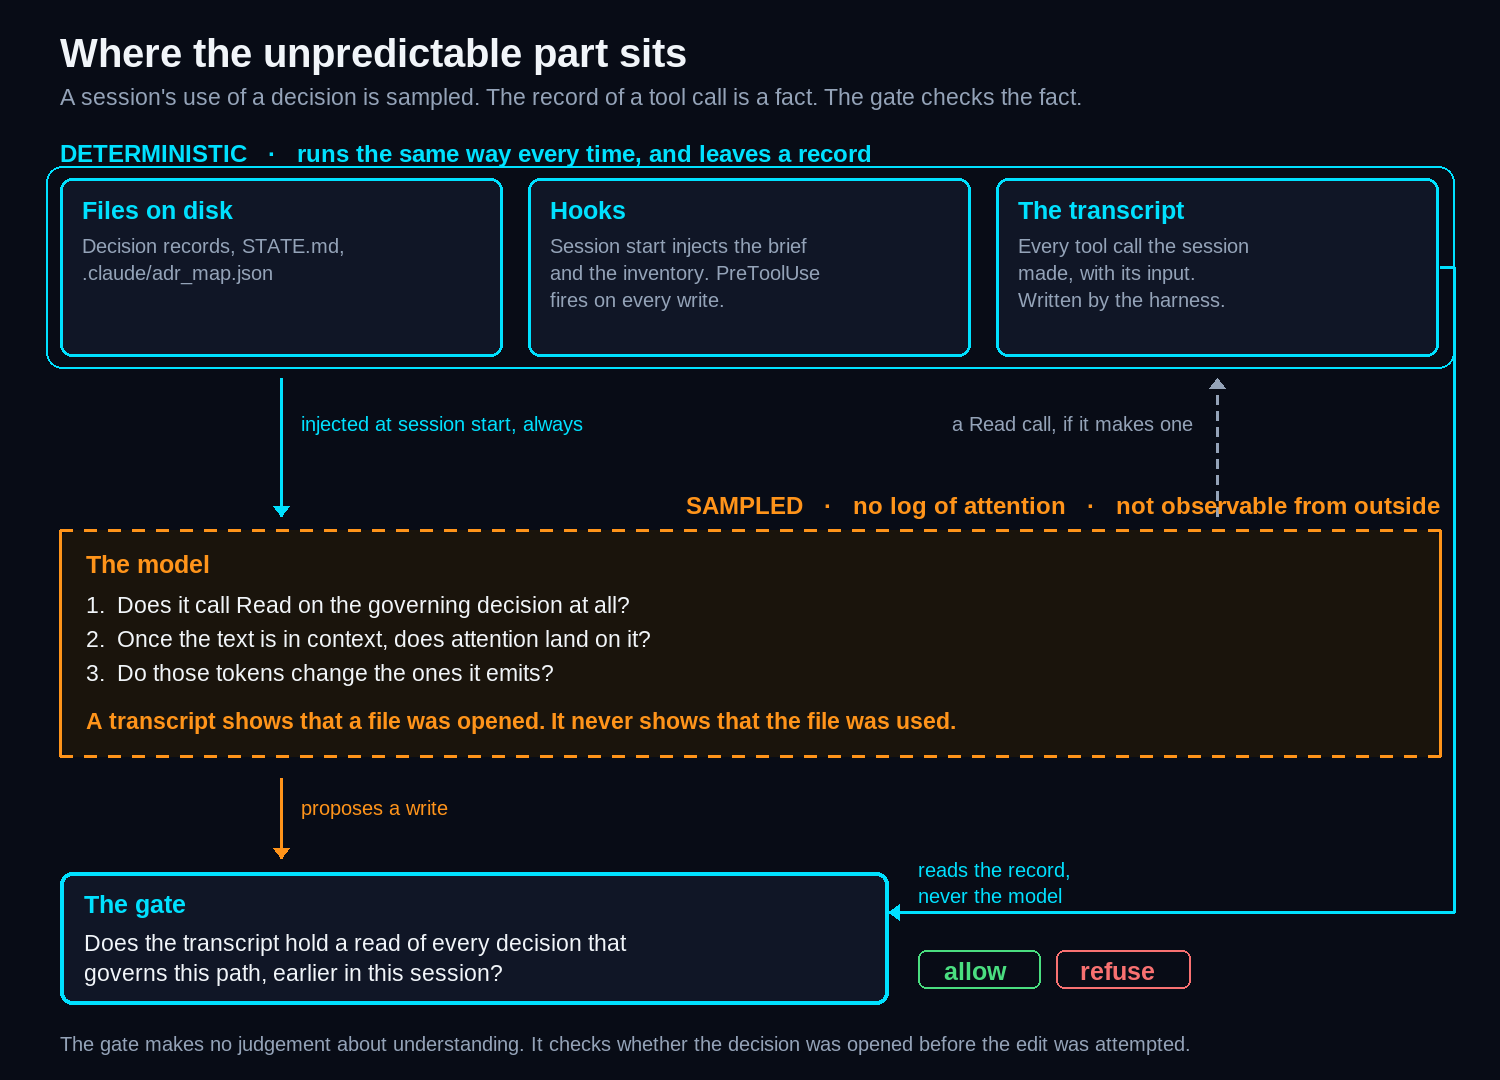
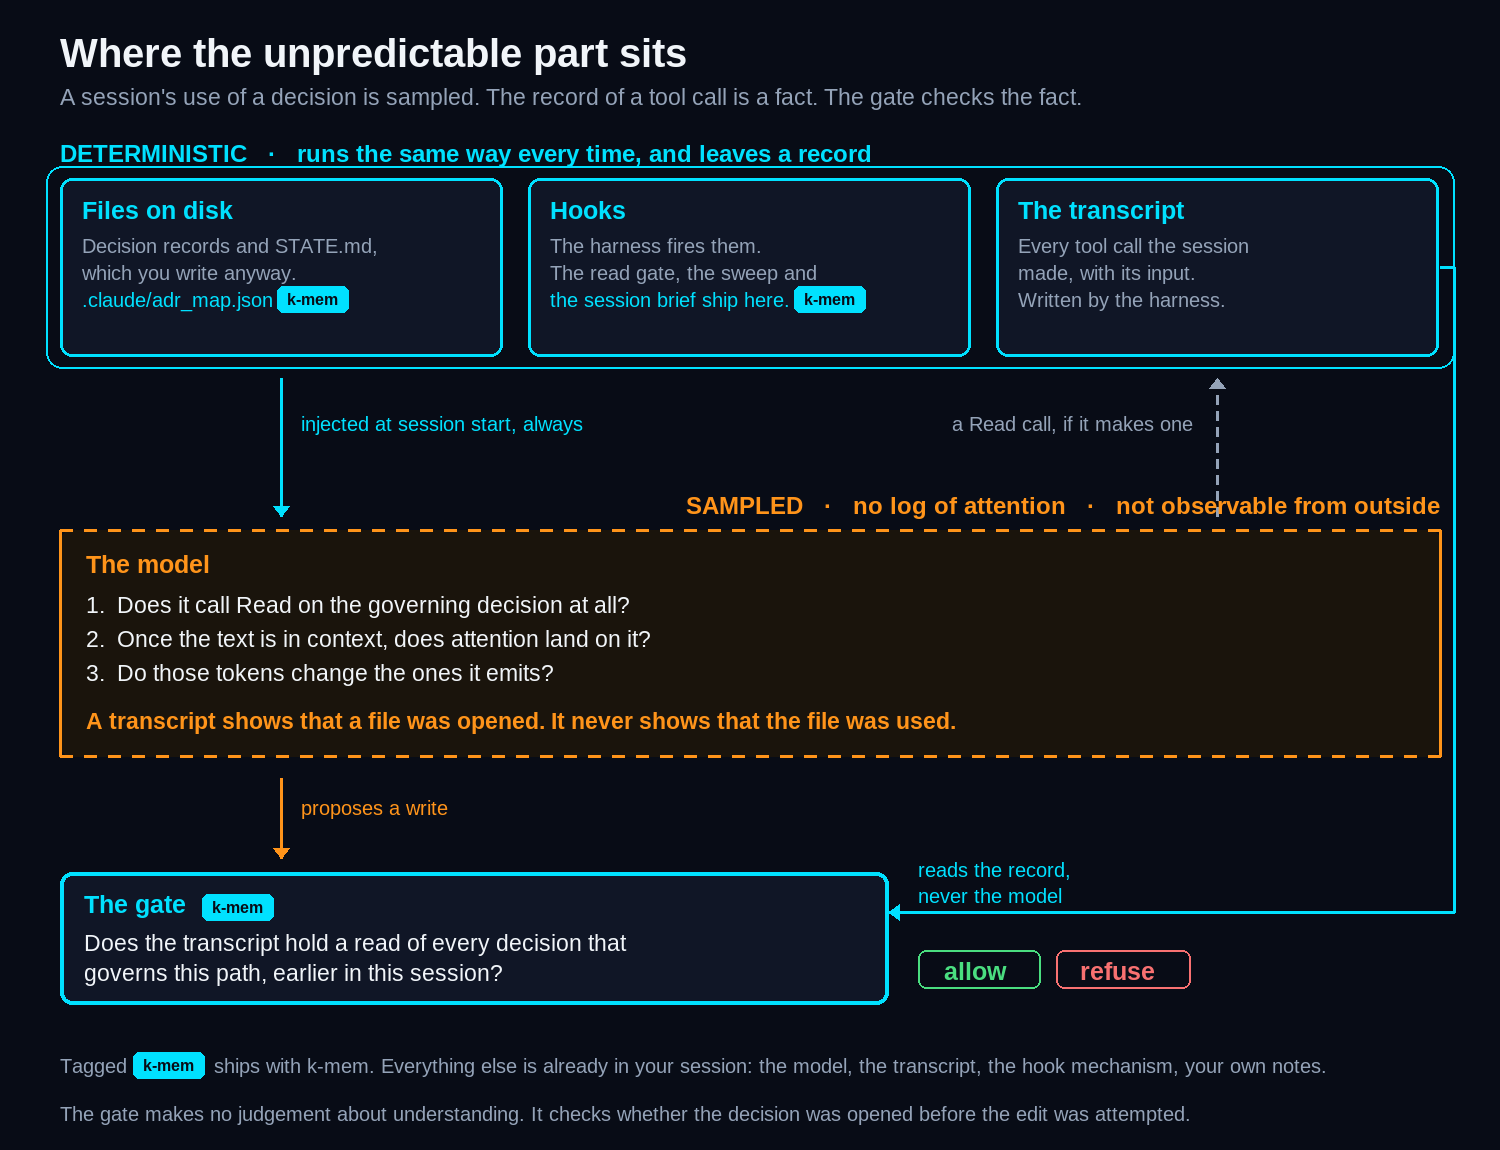
docs: mark which parts of the diagram ship with k-mem
The diagram showed the loop with the gate in it and marked nothing, so
it read as a description of how sessions already work. Half of what it
showed is machinery that exists either way.

A cyan tag now sits on the three things this project adds: the map file,
the hooks it ships, and the gate. The model, the transcript, the hook
mechanism and your own decision records stay plain, and a legend says
which is which.

That carries a claim worth making. K-mem adds one map file and a set of
hooks that read artifacts already lying around. It builds no store and
touches no model.

diff --git a/scripts/make_brand_images.py b/scripts/make_brand_images.py
@@ -157,11 +157,12 @@ def make_gate_demo() -> Path:
 
 def make_diagram() -> Path:
     """The zone diagram. Implements docs/diagram-brief.md; argue with the brief, not here."""
-    W, H = 1500, 1080
+    W, H = 1500, 1150
     im = Image.new("RGBA", (W, H), NAVY + (255,))
     d = ImageDraw.Draw(im)
     f_title, f_zone = font(SANS_BOLD, 40), font(SANS_BOLD, 24)
     f_box, f_body, f_small = font(SANS_BOLD, 25), font(SANS, 23), font(SANS, 20)
+    f_tag = font(SANS_BOLD, 16)
     M = 60
 
     def wrap(text: str, f, limit: int) -> list[str]:
@@ -175,13 +176,25 @@ def make_diagram() -> Path:
                 line = trial
         return out + ([line] if line else [])
 
-    def block(x, y, w, h, title, lines, colour):
+    def tag(x, y):
+        """The mark that says: this ships with k-mem. Everything untagged is already in a session."""
+        w = d.textbbox((0, 0), "k-mem", font=f_tag)[2] + 20
+        d.rounded_rectangle([(x, y), (x + w, y + 26)], radius=6, fill=CYAN + (255,))
+        d.text((x + 10, y + 4), "k-mem", font=f_tag, fill=NAVY)
+        return w
+
+    def block(x, y, w, h, title, lines, colour, tagged=()):
+        """lines: (text, is_kmem). A tagged line gets the mark and the brand colour."""
         d.rounded_rectangle([(x, y), (x + w, y + h)], radius=12, fill=PANEL + (255,), outline=colour + (255,), width=3)
         d.text((x + 22, y + 18), title, font=f_box, fill=colour)
         yy = y + 56
         for ln in lines:
-            for piece in wrap(ln, f_small, w - 44):
-                d.text((x + 22, yy), piece, font=f_small, fill=MUTED)
+            mine = ln in tagged
+            for piece in wrap(ln, f_small, w - 44 - (78 if mine else 0)):
+                d.text((x + 22, yy), piece, font=f_small, fill=CYAN if mine else MUTED)
+                if mine:
+                    tag(x + 26 + d.textbbox((0, 0), piece, font=f_small)[2], yy - 2)
+                    mine = False
                 yy += 27
 
     def v_arrow(x, y1, y2, colour, dashed=False):
@@ -206,9 +219,14 @@ def make_diagram() -> Path:
     d.text((M, 140), "DETERMINISTIC   ·   runs the same way every time, and leaves a record", font=f_zone, fill=CYAN)
     d.rounded_rectangle([(M - 14, z1y - 12), (W - M + 14, z1y + z1h + 12)], radius=16, outline=CYAN + (80,), width=2)
     bw = (W - 2 * M - 2 * 26) // 3
-    block(M, z1y, bw, z1h, "Files on disk", ["Decision records, STATE.md,", ".claude/adr_map.json"], CYAN)
-    block(M + bw + 26, z1y, bw, z1h, "Hooks", ["Session start injects the brief", "and the inventory. PreToolUse", "fires on every write."], CYAN)
-    block(M + 2 * (bw + 26), z1y, bw, z1h, "The transcript", ["Every tool call the session", "made, with its input.", "Written by the harness."], CYAN)
+    block(M, z1y, bw, z1h, "Files on disk",
+          ["Decision records and STATE.md,", "which you write anyway.", ".claude/adr_map.json"],
+          CYAN, tagged={".claude/adr_map.json"})
+    block(M + bw + 26, z1y, bw, z1h, "Hooks",
+          ["The harness fires them.", "The read gate, the sweep and", "the session brief ship here."],
+          CYAN, tagged={"the session brief ship here."})
+    block(M + 2 * (bw + 26), z1y, bw, z1h, "The transcript",
+          ["Every tool call the session", "made, with its input.", "Written by the harness."], CYAN)
 
     # --- the two arrows between zone 1 and zone 2 ------------------------------
     z2y, z2h = 530, 226
@@ -247,6 +265,7 @@ def make_diagram() -> Path:
     gw = int((W - 2 * M) * 0.60)
     d.rounded_rectangle([(M, z3y), (M + gw, z3y + z3h)], radius=12, fill=PANEL + (255,), outline=CYAN + (255,), width=4)
     d.text((M + 24, z3y + 18), "The gate", font=f_box, fill=CYAN)
+    tag(M + 24 + d.textbbox((0, 0), "The gate", font=f_box)[2] + 16, z3y + 22)
     d.text((M + 24, z3y + 58), "Does the transcript hold a read of every decision that", font=f_body, fill=FG)
     d.text((M + 24, z3y + 88), "governs this path, earlier in this session?", font=f_body, fill=FG)
 
@@ -267,6 +286,12 @@ def make_diagram() -> Path:
     d.rounded_rectangle([(M + gw + 168, oy), (M + gw + 302, oy + 38)], radius=8, outline=RED + (255,), width=2)
     d.text((M + gw + 192, oy + 7), "refuse", font=f_box, fill=RED)
 
+    lx = M
+    d.text((lx, H - 96), "Tagged", font=f_small, fill=MUTED)
+    lx += d.textbbox((0, 0), "Tagged ", font=f_small)[2]
+    lx += tag(lx, H - 98) + 10
+    d.text((lx, H - 96), "ships with k-mem. Everything else is already in your session: the model, the transcript, the hook mechanism, your own notes.",
+           font=f_small, fill=MUTED)
     d.text((M, H - 48), "The gate makes no judgement about understanding. It checks whether the decision was opened before the edit was attempted.",
            font=f_small, fill=MUTED)
     im.convert("RGB").save(ASSETS / "where-retrieval-sits.png", optimize=True)

diff --git a/docs/diagram-brief.md b/docs/diagram-brief.md
@@ -65,6 +65,31 @@ The gate asks one question, which should appear as text:
 
 Two outcomes: **allow**, and **refuse** with the files to read named.
 
+## Marking what this project contributes
+
+Half the diagram is machinery that exists whether or not anyone installs this.
+Leaving that unmarked lets the picture read as "here is how the world works",
+which hides the contribution and overstates it at the same time.
+
+So a small cyan `k-mem` tag sits on exactly three things:
+
+| Tagged | Why |
+|---|---|
+| `.claude/adr_map.json` | the one file k-mem asks you to add |
+| the hooks that ship with it | the read gate, the sweep, the session brief |
+| the gate | the check itself |
+
+Everything else stays plain: the model, the transcript, the hook mechanism the
+harness provides, and the decision records you write anyway. The legend says so
+in one line.
+
+Placement rule: a tag closes a phrase, never splits one. A tag in the middle of
+a sentence reads as a footnote marker and breaks the line.
+
+This carries a claim worth making. K-mem is small. It adds one map file and a
+set of hooks that read artifacts already lying around. It builds no store and
+touches no model.
+
 ## What crosses each boundary
 
 Four arrows, no more:
